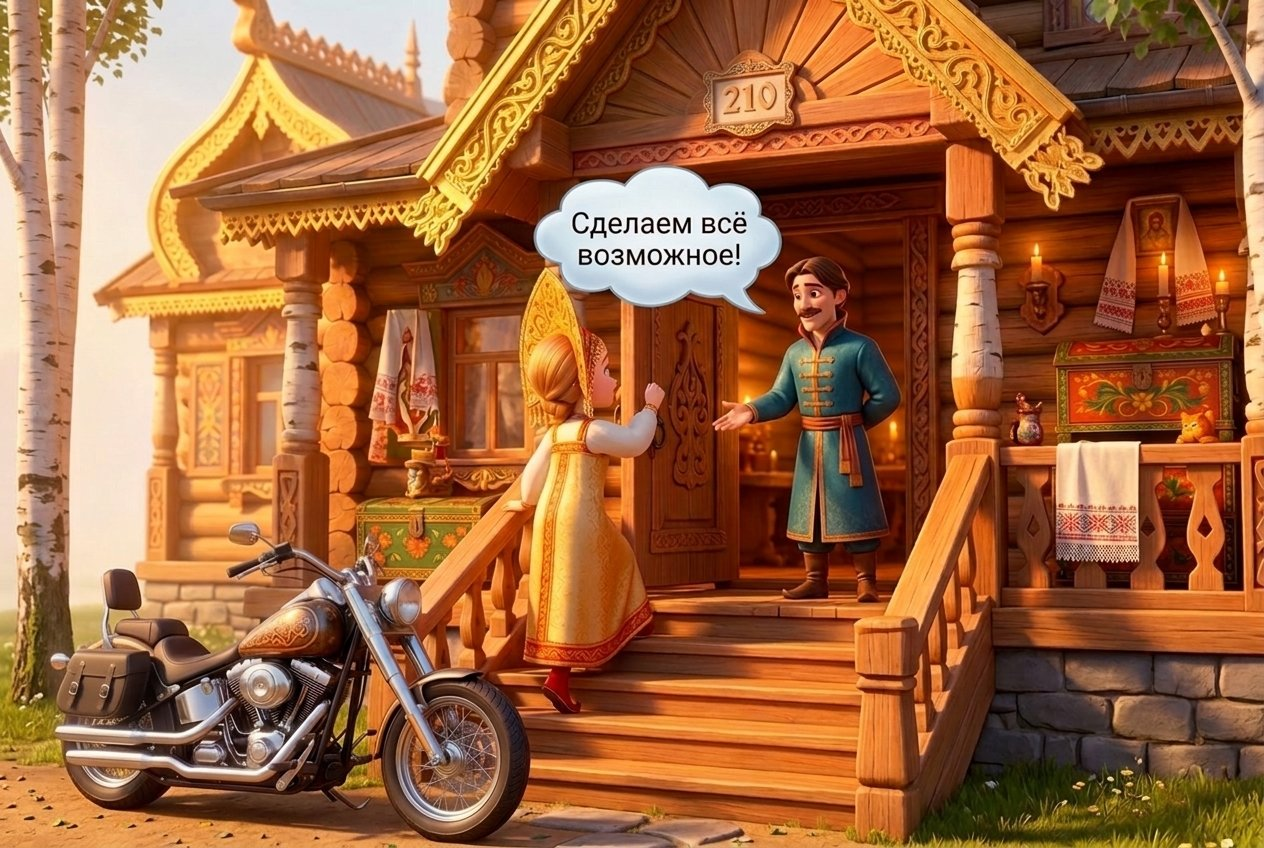
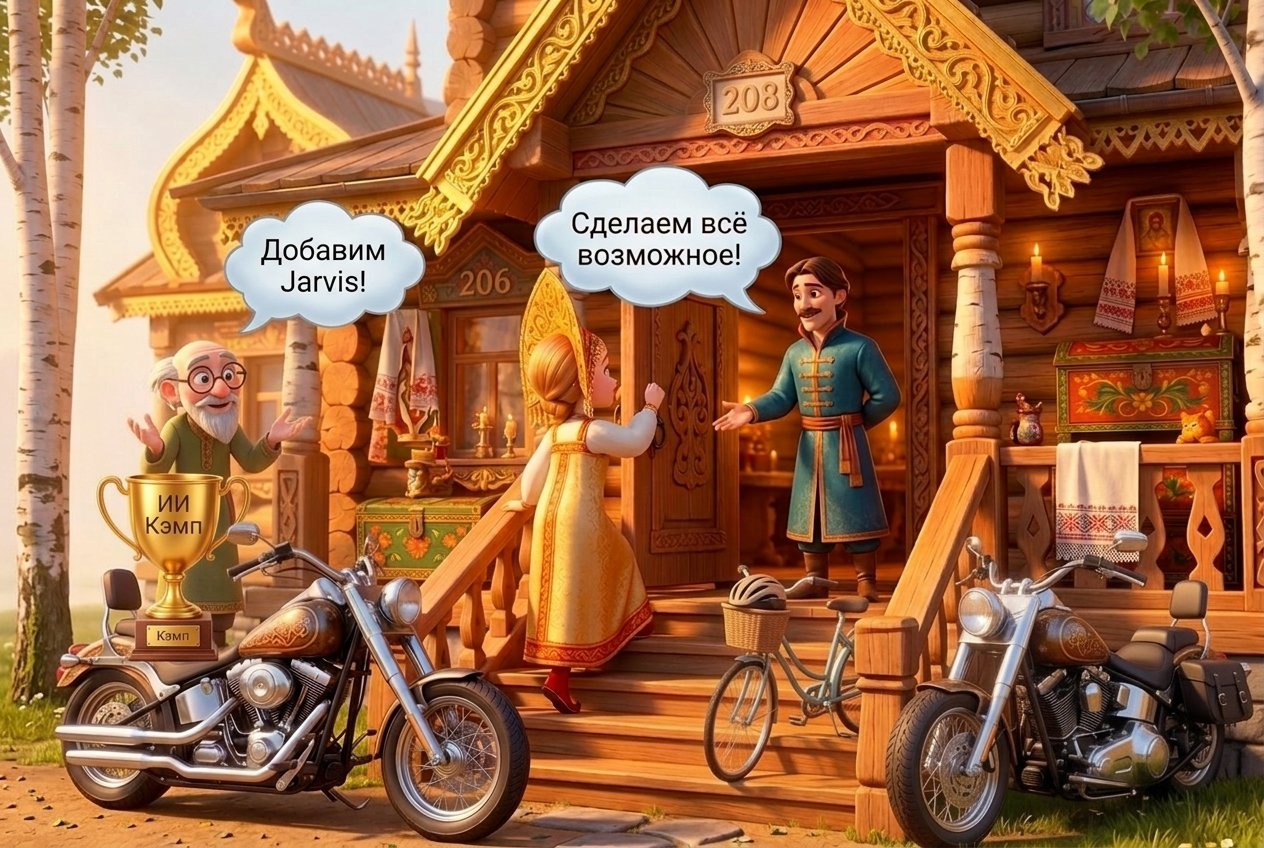
Превью: tender-pech-chistovik

diff --git a/tender-pech-chistovik/index.html b/tender-pech-chistovik/index.html
@@ -2,4 +2,4 @@
 <style>body{margin:0;background:#f6f1e7;font-family:system-ui,sans-serif;color:#222}h1{font-size:28px;margin:24px 16px 4px}p{margin:0 16px 20px;font-size:18px}
 main{display:grid;gap:28px;padding:0 16px 40px;max-width:1400px;margin:auto}figure{margin:0}img{width:100%;border-radius:12px;display:block}
 figcaption{font-size:24px;margin-top:8px}b{display:inline-block;background:#222;color:#fff;border-radius:50%;width:36px;height:36px;text-align:center;line-height:36px;margin-right:8px}</style></head>
-<body><h1>Тендер-печь: чистовая раскадровка</h1><p>Тёплый 3D, фирменная печь. Версия 5: облачка везде в русском стиле, в кадре 8 спрашивает Маша, мудрец 206 в очках с кубком ИКЭМ, мудрец 210 без усов, один мотоцикл у избы 210 во всех кадрах. Новое: неудачные дубли и титры с портретами (16-20). Правки пиши по номерам кадров.</p><main><figure><img src="c01-galaktika.jpg?v=2" loading="lazy"><figcaption><b>1</b> Галактика</figcaption></figure><figure><img src="c02-moskva.jpg?v=2" loading="lazy"><figcaption><b>2</b> Полёт к Москве</figcaption></figure><figure><img src="c03-terem.jpg?v=2" loading="lazy"><figcaption><b>3</b> Терем «Тендерный отдел»</figcaption></figure><figure><img src="c04-tron.jpg?v=2" loading="lazy"><figcaption><b>4</b> Мария Прекрасная на троне</figcaption></figure><figure><img src="c04b-gde-smety.jpg?v=5" loading="lazy"><figcaption><b>5</b> «Где сметы?!»</figcaption></figure><figure><img src="c05-orda.jpg?v=5" loading="lazy"><figcaption><b>6</b> Орда менеджеров</figcaption></figure><figure><img src="c06-ploshchadki.jpg?v=2" loading="lazy"><figcaption><b>7</b> Площадки, тендеры уходят</figcaption></figure><figure><img src="c07-skoro.jpg?v=5" loading="lazy"><figcaption><b>8</b> «Скоро будет»</figcaption></figure><figure><img src="c08-mimo206.jpg?v=5" loading="lazy"><figcaption><b>9</b> Изба 206: «Добавим Jarvis!»</figcaption></figure><figure><img src="c09-izba208.jpg?v=5" loading="lazy"><figcaption><b>10</b> Изба 208</figcaption></figure><figure><img src="c10-izba210.jpg?v=5" loading="lazy"><figcaption><b>11</b> Изба 210</figcaption></figure><figure><img src="c11-chudo.jpg?v=2" loading="lazy"><figcaption><b>12</b> Появление печи</figcaption></figure><figure><img src="c12-pechet.jpg?v=2" loading="lazy"><figcaption><b>13</b> Печь печёт сметы</figcaption></figure><figure><img src="c13-rabota.jpg?v=3" loading="lazy"><figcaption><b>14</b> Работа за 15 минут</figcaption></figure><figure><img src="c14-final.jpg?v=5" loading="lazy"><figcaption><b>15</b> Финал: победа в тендере</figcaption></figure><figure><img src="d01-dubl-kot.jpg?v=1" loading="lazy"><figcaption><b>16</b> Неудачный дубль: кот «Может, ИИКЭМ?», Маша «Ой, не ИИ мне мозг!»</figcaption></figure><figure><img src="d02-dubl-kod.jpg?v=1" loading="lazy"><figcaption><b>17</b> Неудачный дубль: «Маш, можешь ИИКЭМ?» … «Всё, не ИИ мне мозг!»</figcaption></figure><figure><img src="t1-varlamova.jpg?v=1" loading="lazy"><figcaption><b>18</b> Титры: Авторы идеи. Мария Варламова</figcaption></figure><figure><img src="t2-zhuravlev.jpg?v=1" loading="lazy"><figcaption><b>19</b> Титры: Авторы идеи. Станислав Журавлёв</figcaption></figure><figure><img src="t3-lesnyh.jpg?v=1" loading="lazy"><figcaption><b>20</b> Титры: Авторы идеи. Мария Лесных. Наставник: Мария Варламова. Главный исполнитель, реализация: Мария Лесных</figcaption></figure></main></body></html>
+<body><h1>Тендер-печь: чистовая раскадровка</h1><p>Тёплый 3D, фирменная печь. Версия 5: облачка везде в русском стиле, в кадре 8 спрашивает Маша, мудрец 206 в очках с кубком ИКЭМ, мудрец 210 без усов, один мотоцикл у избы 210 во всех кадрах. Новое: неудачные дубли и титры с портретами (16-20). Правки пиши по номерам кадров.</p><main><figure><img src="c01-galaktika.jpg?v=2" loading="lazy"><figcaption><b>1</b> Галактика</figcaption></figure><figure><img src="c02-moskva.jpg?v=2" loading="lazy"><figcaption><b>2</b> Полёт к Москве</figcaption></figure><figure><img src="c03-terem.jpg?v=2" loading="lazy"><figcaption><b>3</b> Терем «Тендерный отдел»</figcaption></figure><figure><img src="c04-tron.jpg?v=2" loading="lazy"><figcaption><b>4</b> Мария Прекрасная на троне</figcaption></figure><figure><img src="c04b-gde-smety.jpg?v=5" loading="lazy"><figcaption><b>5</b> «Где сметы?!»</figcaption></figure><figure><img src="c05-orda.jpg?v=5" loading="lazy"><figcaption><b>6</b> Орда менеджеров</figcaption></figure><figure><img src="c06-ploshchadki.jpg?v=2" loading="lazy"><figcaption><b>7</b> Площадки, тендеры уходят</figcaption></figure><figure><img src="c07-skoro.jpg?v=5" loading="lazy"><figcaption><b>8</b> «Скоро будет»</figcaption></figure><figure><img src="c08-mimo206.jpg?v=6" loading="lazy"><figcaption><b>9</b> Изба 206: «Добавим Jarvis!»</figcaption></figure><figure><img src="c09-izba208.jpg?v=5" loading="lazy"><figcaption><b>10</b> Изба 208</figcaption></figure><figure><img src="c10-izba210.jpg?v=5" loading="lazy"><figcaption><b>11</b> Изба 210</figcaption></figure><figure><img src="c11-chudo.jpg?v=2" loading="lazy"><figcaption><b>12</b> Появление печи</figcaption></figure><figure><img src="c12-pechet.jpg?v=2" loading="lazy"><figcaption><b>13</b> Печь печёт сметы</figcaption></figure><figure><img src="c13-rabota.jpg?v=3" loading="lazy"><figcaption><b>14</b> Работа за 15 минут</figcaption></figure><figure><img src="c14-final.jpg?v=5" loading="lazy"><figcaption><b>15</b> Финал: победа в тендере</figcaption></figure><figure><img src="d01-dubl-kot.jpg?v=6" loading="lazy"><figcaption><b>16</b> Неудачный дубль: кот «Может, ИИ Кэмп?», Маша «Ой, не ИИ мне мозг!»</figcaption></figure><figure><img src="d02-dubl-kod.jpg?v=6" loading="lazy"><figcaption><b>17</b> Неудачный дубль: «Маш, можешь ИИ Кэмп?» … «Всё, не ИИ мне мозг!»</figcaption></figure><figure><img src="t1-varlamova.jpg?v=1" loading="lazy"><figcaption><b>18</b> Титры: Автор идеи и наставник: Мария Варламова</figcaption></figure><figure><img src="t2-zhuravlev.jpg?v=1" loading="lazy"><figcaption><b>19</b> Титры: Автор идеи: Станислав Журавлёв</figcaption></figure><figure><img src="t3-lesnyh.jpg?v=1" loading="lazy"><figcaption><b>20</b> Титры: Автор идеи, исполнитель и реализация: Мария Лесных</figcaption></figure></main></body></html>
